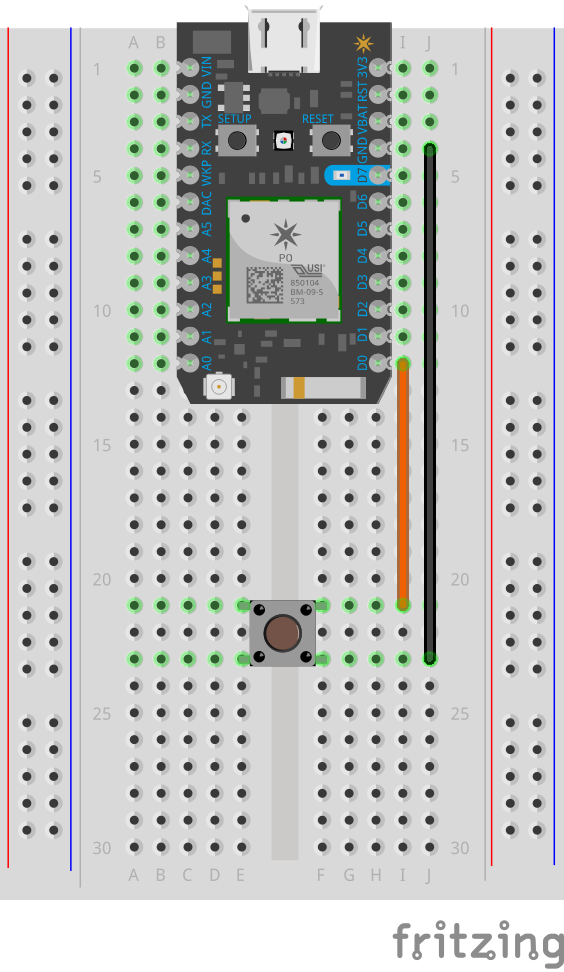
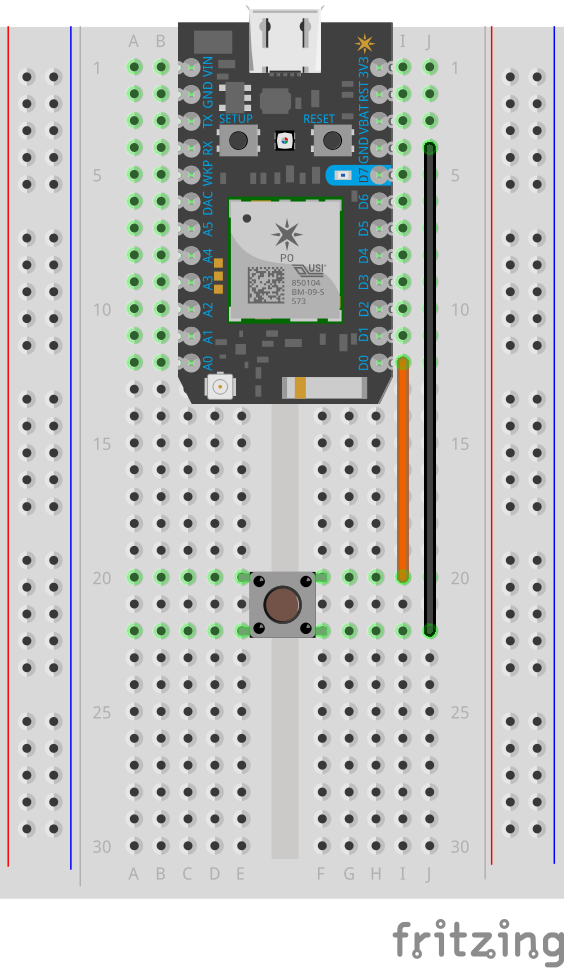
at 12:33 of 2018-05-23

diff --git a/lesson2/firmware/main.cpp b/lesson2/firmware/main.cpp
@@ -1,11 +1,52 @@
 #include "Particle.h"
 
+SYSTEM_MODE(MANUAL); // Disable internet
+
 void setup() // Put setup code here to run once
 {
+
+  // Part 1
+  pinMode(A6, OUTPUT);
+  analogWrite(A6, 2500);
+
+  // Part 2
+  pinMode(D0, OUTPUT);
+  analogWrite(D0, 5);
+
+  // Part 3
+  pinMode(D4, INPUT_PULLUP);
+  pinMode(D2, OUTPUT);
+
+  // Part 4
+  pinMode(A0, INPUT);
+  pinMode(A6, OUTPUT);
+
+  // Part 5
+  pinMode(A4, OUTPUT);
+  digitalWrite(A4, HIGH);
+  pinMode(A2, INPUT);
+  Serial.begin(115200);
 
 }
 
 void loop() // Put code here to loop forever
 {
+
+  // Part 3
+  if ( digitalRead(D4) == LOW ) {
+    analogWrite(D2, 150);
+  }
+  else {
+    analogWrite(D2, 0);
+  }
+
+  // Part 4
+  int potReading = analogRead(A0);
+  analogWrite(A6, potReading);
+
+  // Part 5
+  int lightReading = analogRead(A2);
+  Serial.printlnf("lightReading: %d", lightReading);
+
 
 }

diff --git a/lesson2/README.md b/lesson2/README.md
@@ -1,3 +1,165 @@
 [![Built with po-util](https://rawgit.com/nrobinson2000/po-util/master/images/built-with-po-util.svg)](https://po-util.com)
 
 # Lesson 2: Analog Input and Output
+
+The Particle Photon can do analog input on pins A0-A7. When the Photon does analog input it reads the voltage of an analog pin (0 volts to 3.3 volts) and can store the voltage reading as an integer between 0 and 4095.
+
+The Photon can do true analog output on two pins: DAC1 and DAC2 (A6 and A3). On these pins the Photon can write a value between 0 and 4095 to set the voltage to a value between 0 and 3.3 volts.
+
+The Photon can do PWM (Pulse Width Modulation) on any PWM capable pin (D0-D3, A4-A5, WKP-TX). PWM is not true analog output, but it suffices for many applications like controlling the brightness of LEDs, speeds of motors, and creating tones with buzzers.
+
+For PWM the Photon can write a value between 0 and 255 to a PWM pin to control the digital pulse. (0 corresponds to always off and 255 corresponds to always on).
+
+***
+
+### Circuit Diagram
+
+![](lesson2-diagram.png)
+
+## Part 1: Analog Output with DAC
+
+The Photon can do true analog output on two pins: DAC1 and DAC2 (A6 and A3). On these pins the Photon can write a value between 0 and 4095 to set the voltage to a value between 0 and 3.3 volts.
+
+There should be an LED wired between A6 (DAC) and GND.
+
+In `setup()` there is the following:
+
+```
+pinMode(A6, OUTPUT);
+analogWrite(A6, 2500);
+```
+
+* The first instruction, `pinMode(A6, OUTPUT);` sets A6 as an output.
+* The second instruction, `analogWrite(A6, 2500);` writes the analog value of 2500 (2.0146 volts) to pin A6, turning on the LED.
+
+## Part 2: Analog Output with PWM
+
+The Photon can do PWM (Pulse Width Modulation) on any PWM capable pin (D0-D3, A4-A5, WKP-TX). PWM is not true analog output, but it suffices for many applications like controlling the brightness of LEDs, speeds of motors, and creating tones with buzzers.
+
+For PWM the Photon can write a value between 0 and 255 to a PWM pin to control the digital pulse. (0 corresponds to always off and 255 corresponds to always on).
+
+There should be an LED wired between D0 and GND.
+
+In `setup()` there is the following:
+
+```
+pinMode(D0, OUTPUT);
+analogWrite(D0, 5);
+```
+
+* The first line `pinMode(D0, OUTPUT);` sets D0 as an OUTPUT.
+* The second line `analogWrite(D0, 5);` writes the PWM value of 5 to pin D0.
+
+## Part 3: Analog Output with a Buzzer
+
+Let's use something we learned in the last unit. Wire a button between D4 and GND. We will use it as a digital input.
+
+We're going to also use a piezo buzzer. Wire it between D2 and GND.
+
+In `setup()` there is the following:
+
+```
+pinMode(D4, INPUT_PULLUP);
+pinMode(D2, OUTPUT);
+```
+
+* The first line sets the button on D4 to a digital input.
+* The second line sets the buzzer on D2 to an output.
+
+In `loop()` there is the following:
+
+```
+if ( digitalRead(D4) == LOW ) {
+  analogWrite(D2, 150);
+}
+else {
+  analogWrite(D2, 0);
+}
+```
+
+* When the button is pressed, ( `digitalRead(D4) == LOW` ), the Photon will write the PWM value of 150 to the buzzer.
+* When the button is not pressed, the Photon will turn off the buzzer.
+
+## Part 4: Analog Input from a Potentiometer
+
+The Photon can do analog input on pins A0-A7. When the Photon does analog input it reads the voltage of an analog pin (0 volts to 3.3 volts) and can store the voltage reading as an integer between 0 and 4095.
+
+The Photon can use a potentiometer to get an analog reading. We'll write the value of this reading to the LED wired to A6 (DAC).
+
+There should be a potentiometer wired to A0.
+
+In `setup()` there is the following:
+
+```
+pinMode(A0, INPUT);
+pinMode(A6, OUTPUT);
+```
+
+* The first line sets the potentiometer pin as an analog INPUT.
+* The second line sets the LED pin as an OUTPUT.
+
+In `loop()` there is the following:
+
+```
+int potReading = analogRead(A0);
+analogWrite(A6, potReading);
+```
+
+* The first instruction creates a variable called `potReading` and stores the analog reading of the potentiometer to it.
+* The second instruction writes the reading to the LED connected to A6.
+
+When the potentiometer knob is rotated the brightness of the LED will change.
+
+## Part 5: Analog Input from a Photo-resistor
+
+Much like how the Photon got analog readings from the potentiometer, it can get analog readings from a photo-resistor.
+
+There should be a photo-resistor wired between A4 and A2, and to GND. (Check the circuit diagram.) A4 will power the photo-resistor. A2 will get the readings.
+
+The readings will printed to the serial monitor.
+
+In `setup()` there is the following:
+
+```
+pinMode(A4, OUTPUT);
+digitalWrite(A4, HIGH);
+pinMode(A2, INPUT);
+Serial.begin(115200);
+```
+
+* The first line sets A4 as an OUTPUT.
+* The second line turns on A4 so that it can power the photo-resistor.
+* The third line sets A2 as analog input.
+* The fourth line starts the serial monitor.
+
+In `loop()` there is the following:
+
+```
+int lightReading = analogRead(A2);
+Serial.printlnf("lightReading: %d", lightReading);
+```
+
+* The first line creates a variable called `lightReading` and stores the analog reading of the photo-resistor to it.
+* The second line prints the value of the `lightReading` variable to the serial monitor. The output looks similar to this:
+
+```
+lightReading: 2679
+```
+
+If you open a serial monitor you will get the output. The easiest way to open a serial monitor is to use the following command in Terminal:
+
+```
+particle serial monitor
+```
+
+You should see a lot of output coming in quickly through the serial monitor. You can press (CTRL-C) to close the serial monitor.
+
+## Conclusion:
+
+In this lesson we were introduced to analog inputs and outputs using LEDs, a buzzer, a potentiometer and a photo-resistor.
+
+We learned that DAC can be used to do true analog output operations on pins and use it to control the brightness of an LED, and that PWM (Pulse Width Modulation) can be used to control the brightness of the LED and make noise with a buzzer.
+
+We learned how to take analog readings from a potentiometer and write those values to an LED.
+
+We also learned how to take analog readings from a photo-resistor and print them to the serial monitor.
